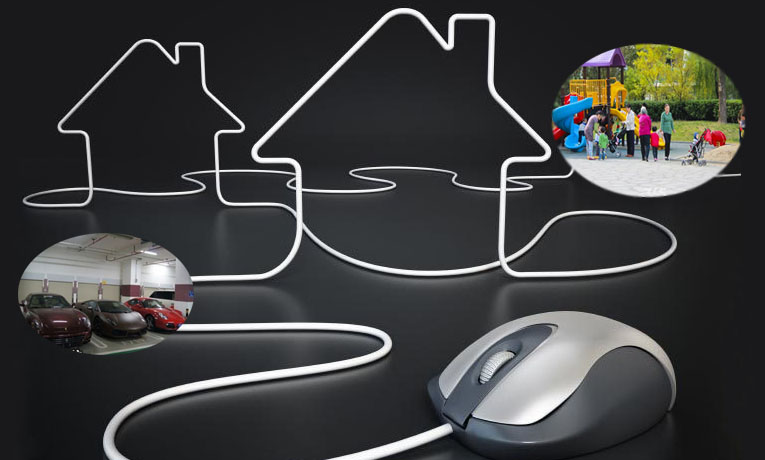
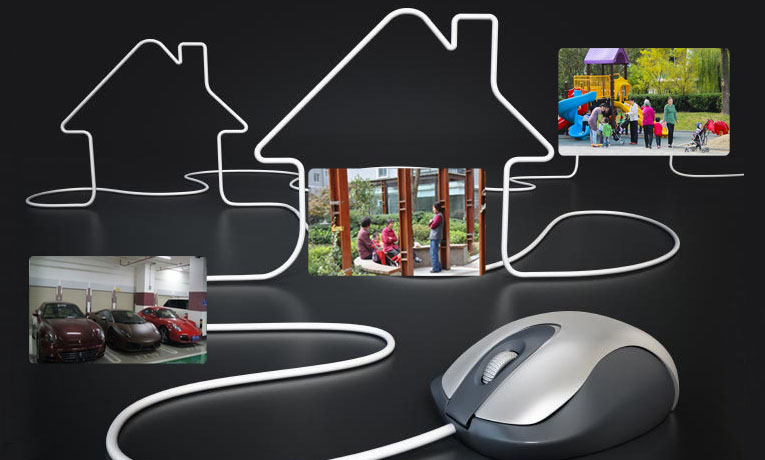
官网修改

diff --git a/css/main.css b/css/main.css
@@ -54,17 +54,22 @@ body{
   margin-bottom: 10px;
   padding-bottom: 0;
 }
-.slogan{
-  padding-top: 150px;
-  padding-bottom: 0;
-  color: #fff;
-  height: 450px;
-  background: #313749 url(../img/slogan.jpg) 650px center no-repeat;
+.slogan-jumbotron{
+  padding: 0;
   margin-bottom: 0;
+  background: #000;
 }
-/*.slogan-context{
+.slogan{
+  padding: 0;
+  margin-bottom: 0;
+  margin-top: 0;
+  color: #fff;
+  height: 460px;
+  background: #000 url(../img/slogan.png) right center no-repeat;
+}
+.slogan-text{
   margin-top: 150px;
-}*/
+}
 .slogan a,.slogan p{
   color: #9B9FAD;
 }
@@ -86,7 +91,7 @@ body{
 .yycj .row > div{
   background: #000;
   opacity: 0.7;
-  /*border-radius: 20px;*/
+  border-radius: 4px;
   color:  #fff;
 }
 .yycj .row{
@@ -143,7 +148,7 @@ body{
 
 @media (min-width: 992px) and (max-width: 1200px) {
   .slogan{
-    background-position: 400px center;
+    /*background-position: 400px center;*/
   }
 }
 
@@ -155,6 +160,9 @@ body{
     padding-top: 10px;
     background-position: center center;
     background-size: auto 220px;
+  }
+  .slogan-text{
+    margin-top: 0;
   }
   .slogan-user{
     padding-top: 250px;

diff --git a/js/video.js b/js/video.js
@@ -119,9 +119,10 @@ HlsVideo.prototype = {
     var _this = this;
     var sec = 10;
     this.tiptimer = setInterval(function(){
-      if (0 === sec && undefined !== _this.tiptimer){
+      if (1 === sec && undefined !== _this.tiptimer){
         clearInterval(_this.tiptimer);
         _this.tiptimer = undefined;
+        return;
       }
       sec--;
       $('#playTipSec').text(sec);

diff --git a/index.html b/index.html
@@ -48,8 +48,8 @@
       </div>
     </div>
   </header>
-  <div class="jumbotron slogan">
-    <div class="container">
+  <div class="jumbotron slogan-jumbotron">
+    <div class="container slogan">
       <div class="row slogan-context slogan-text">
         <div class="col-xs-12 col-md-6 col-sm-6 col-lg-4">
           <h2>源景视频，“视”无边际</h2>
